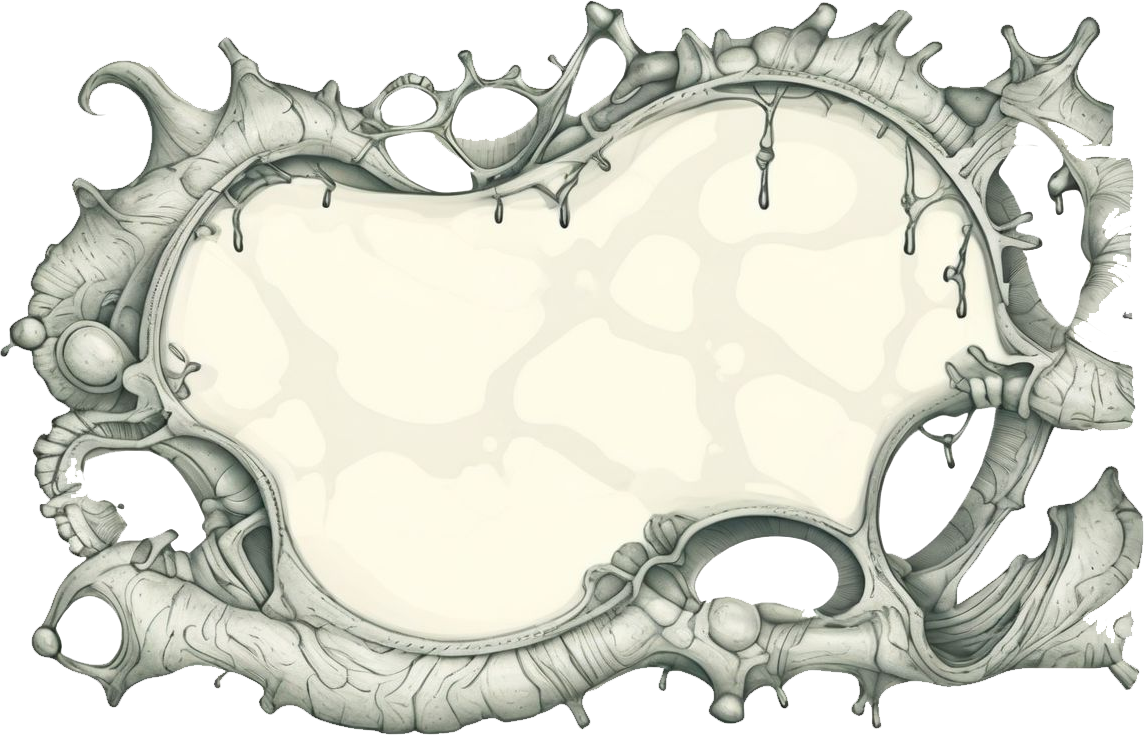
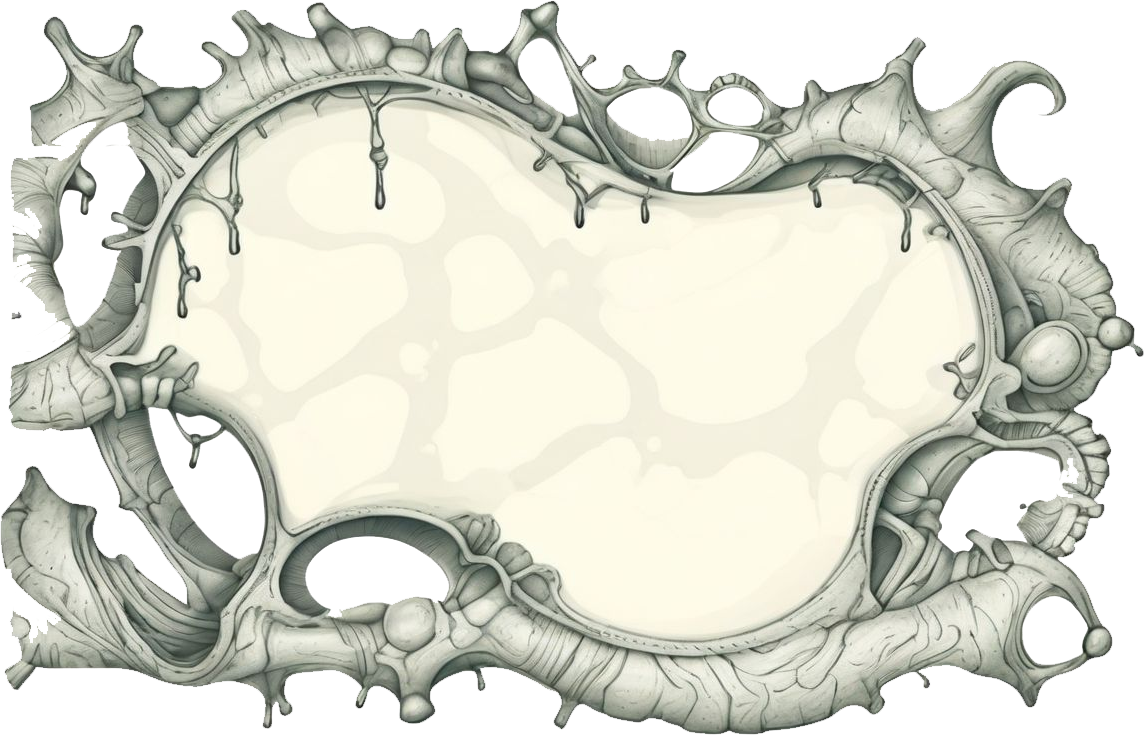
El background del nivel del questionario tiene movimiento en el background.

diff --git a/src/screens/Course1/TeoricSublevel/TeoricSublevel.css b/src/screens/Course1/TeoricSublevel/TeoricSublevel.css
@@ -57,6 +57,7 @@
   position: absolute;
   transform: rotate(90deg);
   /* background-color: #1b6552; */
+  pointer-events: none;
 }
 
 .start {
@@ -130,27 +131,40 @@ button.button-teoric svg {
   left: 13vw;
 }
 
-@keyframes travel {
-  0% {
-    background-position: bottom center, 0 0;
-  }
-  100% {
-    background-position: bottom center, -100% 0;
-  }
-}
-
 .teoric-sublevel-container {
   position: absolute;
   top: 0;
   left: 0;
   width: 100%;
   height: 100%;
-  background-size: cover, 50% 50%; /* Mantener la proporción de la segunda imagen */
-  background-image: url('/public/assets/questionnaire-background.png'), url('/public/assets/questionnaire-moving-sky.png');
-  background-position: bottom center, 0 0;
-  background-repeat: no-repeat, repeat; /* Solo la segunda imagen se repite */
-  background-color: black;
-  animation: travel 4s infinite linear;
+  background-image: url('/public/assets/questionnaire-background.png');
+  background-size: cover;
+  background-position: bottom center;
+  background-repeat: no-repeat;
+}
+
+.moving-sky {
+  position: absolute;
+  top: 0;
+  left: 0;
+  width: 100%;
+  height: 100%;
+  background-image: url('/public/assets/questionnaire-moving-sky.png');
+  background-size: 50% 50%;
+  background-position: 0 0;
+  background-repeat: repeat;
+  animation: travel 28s infinite linear;
+  filter: blur(11px);
+  z-index: -1;
+}
+
+@keyframes travel {
+  0% {
+    background-position: 0 0;
+  }
+  100% {
+    background-position: -100% 0;
+  }
 }
 
 .pet-companion {
@@ -162,4 +176,5 @@ button.button-teoric svg {
   position: absolute;
   left: 26vw;
   bottom: 0;
+  pointer-events: none;
 }

diff --git a/src/screens/Course1/TeoricSublevel/TeoricSublevel.js b/src/screens/Course1/TeoricSublevel/TeoricSublevel.js
@@ -1,4 +1,4 @@
-import React, { useState } from 'react';
+import React from 'react';
 import './TeoricSublevel.css';
 import { useUser } from "../../../components/utils/UserProvider";
 
@@ -172,11 +172,12 @@ const TeoricSublevel = ({ backgroundImage }) => {
 
     return (
         <div className='teoric-sublevel-container'>
+            <div className="moving-sky"></div>
             {showScore ? (
                 <div className='score-section'>You scored {score} out of {questions.length}</div>
             ) : (
                 <div className="question-container">
-                    
+
                     <div className='question-section'>
                         <div className='question-count question-progress'>
                             <span>Question {currentQuestion + 1}</span>/{questions.length}

diff --git a/src/App.js b/src/App.js
@@ -8,6 +8,7 @@ import Course1Sublevel2 from "./screens/Course1/Course1Sublevel2/Course1Sublevel
 import Course1Sublevel3 from "./screens/Course1/Course1Sublevel3/Course1Sublevel3";
 import TeoricSublevel from "./screens/Course1/TeoricSublevel/TeoricSublevel";
 
+
 const App = () => {
     return (
         <Router>
